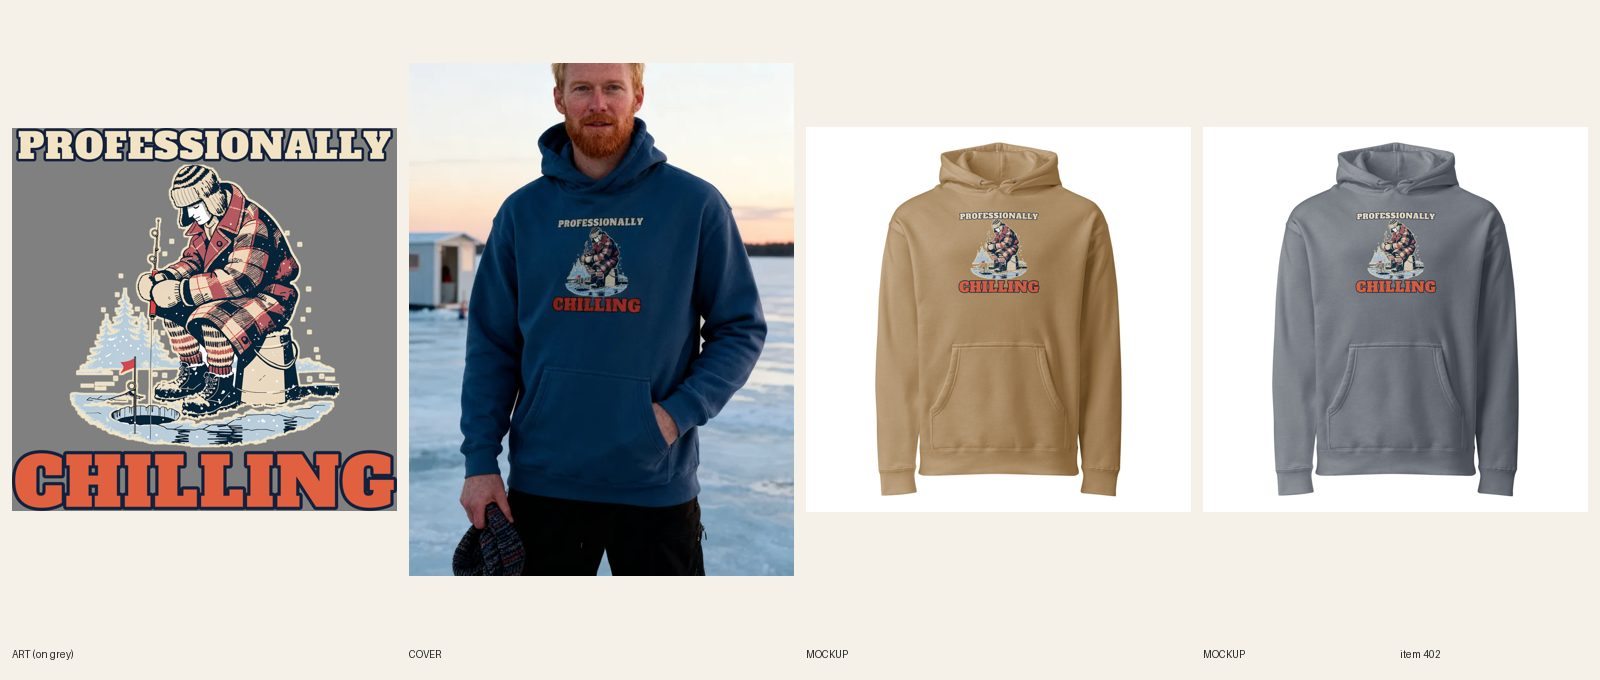
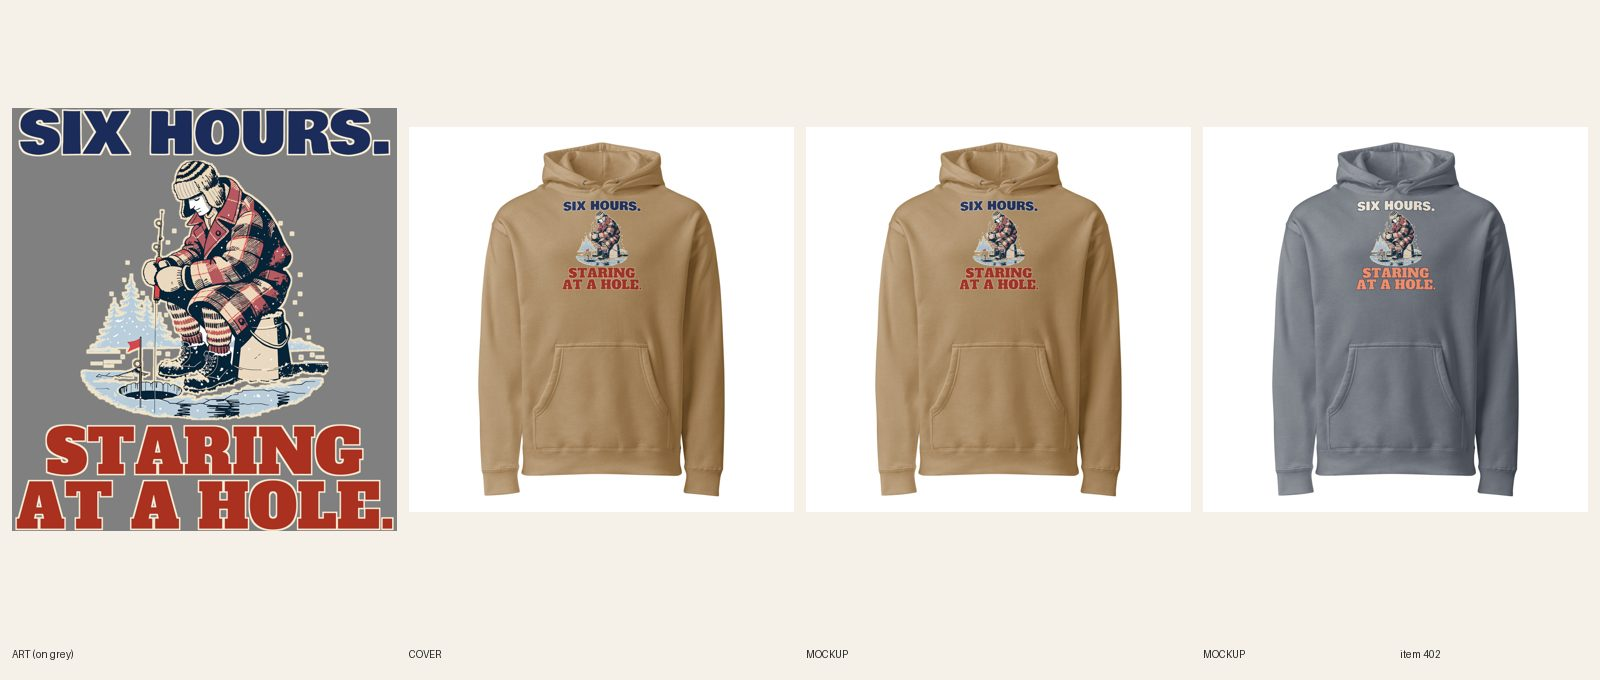
[C] review 402 (redo)
Claude-Session: https://claude.ai/code/session_01CCHcDj8LcJJ8qUPtKE3cvn

Changed region(s): [[0.0, 0.0926, 0.5, 0.8647], [0.8438, 0.2779, 0.9062, 0.4324], [0.5938, 0.2779, 0.6562, 0.4324]]

diff --git a/designs/lib.py b/designs/lib.py
@@ -39,3 +39,18 @@ def lockup(art, W, top, bottom, name, bgs, g=36):
         bg = Image.new('RGBA', out.size, c); bg.alpha_composite(out); bg.convert('RGB').resize((600, int(600 * H / W))).save(f'designs/prev_{name}_{tag}.png')
     return out
 def widths(*ls): return [l.width for l in ls]
+def line_same(texts, font, wfrac, W, fill, key, kw=27, track=0):
+    """Render several lines at ONE font size: the widest line takes wfrac*W. Returns the list of line images."""
+    ref = max(texts, key=lambda t: len(t)); imgs = [line(t, font, wfrac, W, fill, key, kw, track) for t in texts]
+    # fit by widest rendered natural width: scale factors from the independently fitted widths
+    widest = max(i.width for i in imgs); out = []
+    for t in texts:
+        f = ImageFont.truetype(FD + F[font], 800)
+        if VAR.get(font): f.set_variation_by_axes(VAR[font])
+        nat = sum(f.getlength(c) for c in t) + track * (len(t) - 1)
+        out.append(nat)
+    big = max(out); size_ratio = (W * wfrac) / big
+    res = []
+    for t, nat in zip(texts, out):
+        res.append(line(t, font, (nat * size_ratio) / W, W, fill, key, kw, track))
+    return res

diff --git a/designs/c402/make.py b/designs/c402/make.py
@@ -1,0 +1,9 @@
+import sys; sys.path.insert(0,'.')
+from designs.lib import *
+im=Image.open('docs/print-files/402-professionally-chilling.png').convert('RGBA'); W=im.width
+art=im.crop((0,323,W,2813)); art=art.crop(art.getbbox()); art=art.resize((int(art.width*0.92),int(art.height*0.92)),Image.LANCZOS)
+NAVY=(28,44,90,255); RED=(206,70,48,255); DRED=(170,48,32,255)
+for tag,c1,k1,c2,k2,bg in (('sandstone',NAVY,CREAM,DRED,CREAM,(190,160,120,255)),('storm',CREAM,NAVY,(255,150,110,255),NAVY,(86,112,148,255))):
+    h1=line("SIX HOURS.",'bowlby',0.97,W,c1,k1,kw=29); pa,pb=line_same(["STARING","AT A HOLE."],'alfa',0.985,W,c2,k2,kw=27)
+    print(tag,'headline px',h1.width,'punch px',pa.width,pb.width,'heights',h1.height,pa.height,pb.height,'art',art.size)
+    out=lockup(art,W,[h1],[pa,pb],f'402-v2-hole-{tag}',{tag:bg}); print(out.size,out.height/out.width)

diff --git a/docs/pipeline/402-fishing-hoodie-professionally-chilling.md b/docs/pipeline/402-fishing-hoodie-professionally-chilling.md
@@ -1,4 +1,4 @@
-status: BUILDING [C] 2026-10-20 08:19
+status: REVIEW
 lane: C
 type: new
 id: 402
@@ -31,3 +31,4 @@ kd: 34
 - 2026-10-17 21:47 UTC builder [C]: REVIEW. Sync 14/14. Sheet docs/review/402.jpg. design-crops and variant-photo audit cover published products only: rerun when ACTIVE. Local cohesion audit not run (no spec file); copy checked by hand against the art. 
 - 2026-10-17 22:39 UTC director: APPROVED, LIVE. ACTIVE + Online Store, Headless and Google & YouTube; audit --handle PASS (0 warn). Copy polished by the director first (R8: keyword counts, superlatives, false claims).
 - 2026-10-18 17:22 UTC director: QUALITY RESET grade C (new line + type), REDO. The product stays ACTIVE (same handle, URL, title keyword). 1. Line (R3.12, quality-reset 'Lines'): "PROFESSIONALLY / CHILLING": Cliche "professionally X" plus groan chill pun. Write 5 candidates, keep the one a stranger laughs at in 3 seconds without backstory; kill lines that only describe the picture; if none of the 5 is funny, PARK it. 2. Quality reset type bar (docs/backlog/quality-reset.md, 'The new bar'): headline at least 90% of the art width, heavy, colors pulled from the art; second line at least 45% of the headline's height, never a thin script on a dark or mid garment; use the lettering as a shape (arch, stacked lockup, words breaking into the art), not a plain bar above and a script line below; no font used on more than 1 in 6 of the last 30 designs. 3. Keep the art if it carries the new line, else one new illustration (R4/R5). New print means a new cover per R6.10, copy line one rewritten for the new joke (R8.3), and a fresh review sheet (R7.7). While quality-reset.md says PAUSED, only lane A builds, and only the samples step 2 names.
+- 2026-10-20 08:25 UTC builder [C]: REDO new line + type (grade C; title card 7i done). 5 candidates, compared with Sorry About Your Windshield., Short Legs, Long Opinions and Not Cheating. Improving My Lie.: "SIX HOURS. / STARING AT A HOLE." (kept: deadpan job description of ice fishing, a stranger gets it from the picture), "PROFESSIONALLY CHILLING" (old formula), "I CAME FOR PEACE. THE FISH DIDN'T.", "FISHING FOR SILENCE", "IF I CATCH NOTHING, I'M STILL WINNING". Same ice-fishing art at 92%. Measured ink widths (card 7h): headline SIX HOURS. 3278 px / punch STARING 2807 px and AT A HOLE. 3337 px (the widest punch line is 102% of the headline; both punch lines share one font size and are taller than the headline, 459 vs 427 px). Bowlby One headline, Alfa Slab One punch. Light-file (R5.3.8): Sandstone file 1090254838 (headline navy with cream keyline, punch deep red), Storm Blue file 1090254866 (headline cream with navy keyline, punch light coral); docs/print-files/402-v2-hole-sandstone.png / -storm.png; print 3395 x 3731, FW 1600 TOP 20, 14/14 relinked (verified on the API). 2 fronts replaced in place, read at phone size. Title set to "Men's Fishing – Six Hours Staring at a Hole Heavyweight Hoodie" (handle unchanged), copy + SEO rewritten; handle in retired-covers.json. Plain product shot. fal $0.

diff --git a/docs/intake-log.md b/docs/intake-log.md
@@ -6,6 +6,7 @@
 RUNNING lane B since 2026-10-20 07:29 UTC
 2026-10-20 08:00 UTC — [E] Builder run: redid #608 Women's Pickleball tee (line + type: POLITE SMILE. / PERSONAL VENDETTA., same serene-lady art, Bevan, dark-ink file on 5 light colors, 30/30 synced). REVIEW. fal $0.
 RUNNING lane C since 2026-10-20 07:00 UTC
+2026-10-20 08:25 UTC — [C] Builder run: redid #402 Men's Fishing heavyweight hoodie (new line + type: SIX HOURS. / STARING AT A HOLE., headline 3278 px / punch 3337 px, Bowlby + Alfa, same ice-fishing art, Sandstone file 1090254838 + Storm Blue file 1090254866, FW 1600 TOP 20, 14/14 relinked, 2 fronts replaced in place, title + copy + SEO updated). REVIEW. fal $0.
 2026-10-20 08:18 UTC — [C] Builder run: redid #397 Unisex Otter hoodie (new line + type: I'M NOT LAZY. / GOING WITH THE FLOW., headline 3300 px / punch 3311 px, Bowlby One, same otter art, Sand file 1090252596 + Navy file 1090252654, FW 1500 TOP 0, 12/12 relinked, 2 fronts replaced in place, title + copy + SEO updated). REVIEW. fal $0.
 2026-10-20 08:12 UTC — [C] Builder run: redid #368 Unisex Western heavyweight hoodie (new line + type: ALL LUCK. / NO HORSE SENSE., punch full width 3189 px, Alfa Slab, same horseshoe art, Sandstone file 1090249416 + Storm Blue file 1090249454, FW 1600 TOP 20, 14/14 relinked, 2 fronts replaced in place, title + copy + SEO updated). REVIEW. fal $0.
 2026-10-20 08:03 UTC — [C] Builder run: redid #450 Unisex Crow hoodie (new line + type: FINDERS KEEPERS. / SORRY ABOUT YOUR EARRING., headline 3249 px / punch 3281+3265 px, Big Shoulders + Alfa Slab, same crow art, Sand file 1090246352 + Navy file 1090246409, FW 1500 TOP 0, 12/12 relinked, 2 fronts replaced in place, title + copy + SEO updated); added 9 handles to retired-covers.json. REVIEW. fal $0.
